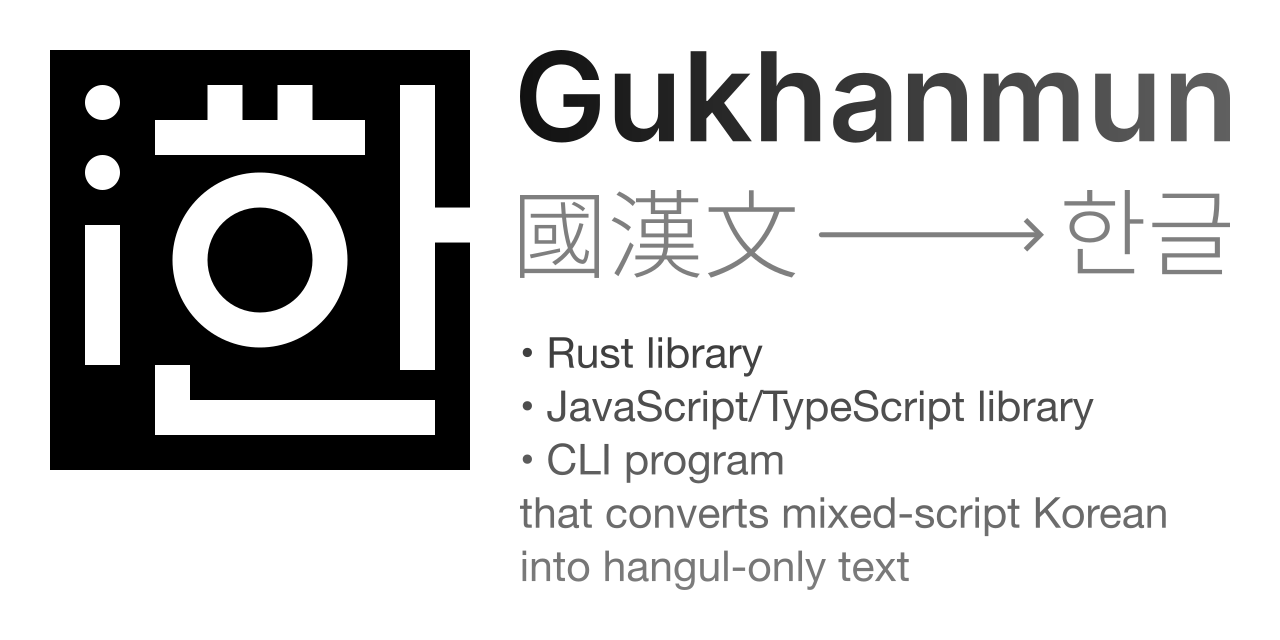
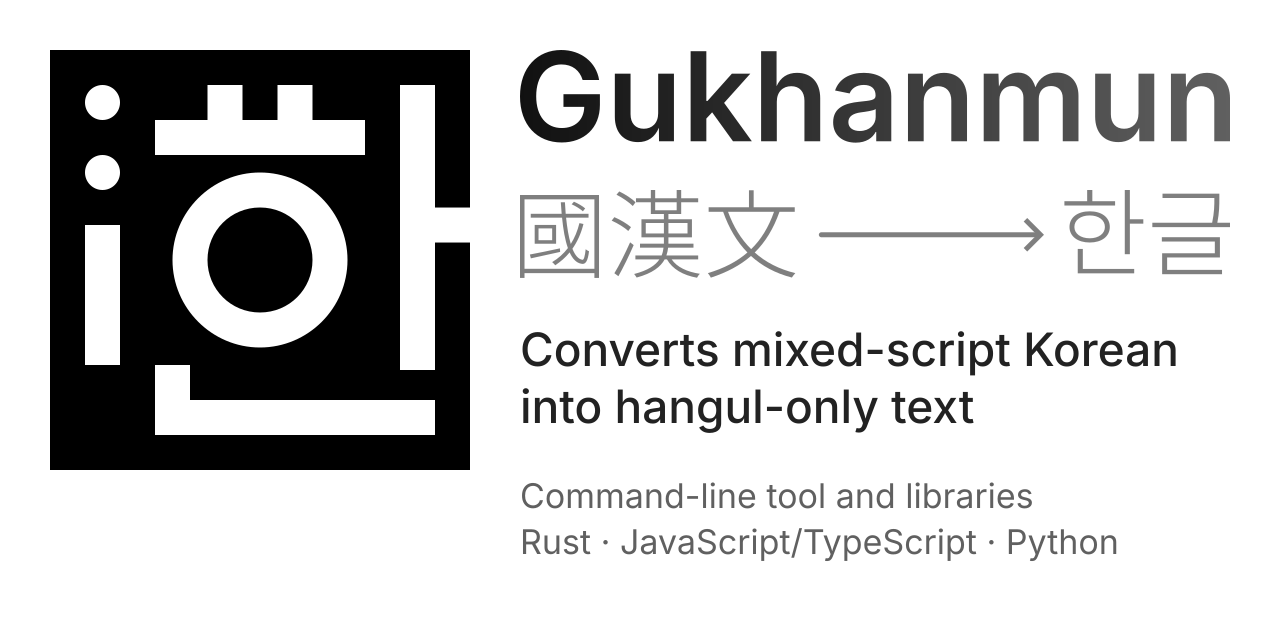
Document Python support across project materials
Include Python in sponsorship, dictionary distribution, licensing and
release documentation. Clarify Python's buffered streaming interface
and update the documentation structure guide.

Reorganize the Open Graph artwork to separate conversion features from
supported interfaces, and give every language equal visual weight.
Regenerate the PNG with font-independent outlined lettering.

[ci skip]

Assisted-by: OpenCode:gpt-6.1-sol
Assisted-by: Claude Code:claude-sonnet-5-5

Changed region(s): [[0.4062, 0.5, 0.9375, 0.9375]]

diff --git a/DESIGN.ko-Kore.md b/DESIGN.ko-Kore.md
@@ -1205,7 +1205,7 @@ Python은 構造的 記述子 代身 變更할 수 없는 `MapDictionarySource`,
 | `gukhanmun-loanwords`      | 예        | 아니오      | 아니오          | 아니오 |
 | `gukhanmun-mkdict`         | 예        | 아니오      | 아니오          | 아니오 |
 | `gukhanmun`                | 예        | 아니오      | 아니오          | 예     |
-| `gukhanmun-cli`            | 예        | 아니오      | 아니오          | 아니오 |
+| `gukhanmun-cli`            | 예        | 아니오      | 아니오          | 예     |
 | `gukhanmun-wasm`           | 예        | 아니오      | 아니오          | 아니오 |
 | `gukhanmun-napi`           | 예        | 아니오      | 아니오          | 아니오 |
 | `gukhanmun-python`         | 아니오    | 아니오      | 아니오          | 아니오 |
@@ -1226,18 +1226,23 @@ Python은 構造的 記述子 代身 變更할 수 없는 `MapDictionarySource`,
 | `gukhanmun-loanwords-cdb`  | 아니오    | 아니오      | 아니오          | 예     |
 
 CLI 바이너리는 各 릴리스 GitHub Releases에 플랫폼別(Linux x86\_64·aarch64, macOS
-arm64·x86\_64, Windows x86\_64) 添附된다.
+arm64·x86\_64, Windows AMD64·ARM64) 添附된다. 獨立된 `gukhanmun-cli` PyPI
+配布版은 같은 辭典 內藏 變換器와 `gukhanmun-mkdict`를 여섯 플랫폼別 휠(wheel)로
+提供한다. Python 바인딩인 `gukhanmun`이나 辭典 데이터 配布版에는 依存하지
+않으며, 自動 完成 資源과 소프트웨어·데이터 告知도 包含한다. 이 CLI의 產出物과
+檢證 記錄은 Python 바인딩의 31個 配布 파일과 別途로 管理한다.
 
 公開 패키지의 버전은 모두 同一步調(lockstep)로 進行한다.
 *Cargo.toml*의 `workspace.package.version`만 手動으로 選擇하며, 다음에
 計劃한 릴리스 버전을 나타낸다. `mise run bump-execute`는 워크스페이스와
-JavaScript 매니페스트, 일곱 Python 매니페스트, 正確한 엑스트라 버전 固定과
+JavaScript 매니페스트, 여덟 Python 매니페스트, 正確한 엑스트라 버전 固定과
 *uv.lock*을 하나의 署名 커밋에서 함께 올린다. 릴리스 태그는 버전을 바꾸지 않고
 그 버전을 配布한다. 機能이 달라지지 않은 패키지도 言語 間 依存性을 맞추기
 爲해 함께 올린다. 配布를 함께 調整하여 個別 버전을 使用하는 런타임·共有
 타입·辭典 패키지 사이의 依存 範圍 不一致를 防止한다. 태그 워크플로는
-크레이트를 crates.io에, JavaScript 패키지를 npm/JSR에 配布하고, 플랫폼別
-NAPI 事前 빌드 바이너리를 빌드하며, 릴리스 바이너리를 GitHub 릴리스에 添附한다.
+크레이트를 crates.io에, JavaScript 패키지를 npm/JSR에, Python 配布版을 PyPI에
+配布하고, 플랫폼別 NAPI 事前 빌드 바이너리를 빌드하며, 릴리스 바이너리를
+GitHub 릴리스에 添附한다.
 非公開 `gukhanmun-python` 크레이트는 Python 原始 코드
 配布版에 담되 crates.io에는 配布하지 않는다.
 

diff --git a/DESIGN.en.md b/DESIGN.en.md
@@ -1442,7 +1442,7 @@ sequence. The corresponding `*_bytes()` helpers return dictionary bytes.
 | `gukhanmun-loanwords`      | yes       | no                      | no                 | no   |
 | `gukhanmun-mkdict`         | yes       | no                      | no                 | no   |
 | `gukhanmun`                | yes       | no                      | no                 | yes  |
-| `gukhanmun-cli`            | yes       | no                      | no                 | no   |
+| `gukhanmun-cli`            | yes       | no                      | no                 | yes  |
 | `gukhanmun-wasm`           | yes       | no                      | no                 | no   |
 | `gukhanmun-napi`           | yes       | no                      | no                 | no   |
 | `gukhanmun-python`         | no        | no                      | no                 | no   |
@@ -1483,8 +1483,9 @@ tag publishes that version without changing it. Packages with no functional
 change still advance together to keep cross-language dependencies aligned.
 Coordinated releases avoid dependency-range drift between independently
 versioned runtimes, shared types and dictionary packages. The tag workflow
-publishes crates to crates.io and JavaScript packages to npm/JSR, builds
-per-platform NAPI prebuilts, and attaches release binaries to GitHub Releases.
+publishes crates to crates.io, JavaScript packages to npm/JSR, and Python
+distributions to PyPI. It builds per-platform NAPI prebuilts and attaches
+release binaries to GitHub Releases.
 The private `gukhanmun-python` crate is packaged in the Python sdist, not
 published to crates.io.
 

diff --git a/docs/README.md b/docs/README.md
@@ -2,8 +2,9 @@ Gukhanmun documentation
 =======================
 
 This directory contains the [Rspress] documentation site for Gukhanmun.
-The site is built from Markdown and MDX source files and uses TypeDoc to
-generate the API reference.
+The site is built from Markdown and MDX source files. TypeDoc generates the
+JavaScript API reference; the Python API reference is hand-written, and the
+Rust API reference is hosted on docs.rs.
 
 [Rspress]: https://rspress.dev/
 
@@ -46,13 +47,16 @@ pnpm run preview
 Structure
 ---------
 
- -  *guide/* contains hand-written user-facing documentation, organised into
-    three subdirectories: *cli/*, *javascript/*, and *rust/*.
- -  *internals/* contains design and implementation notes.  *design.md* is a
-    symlink to *DESIGN.en.md* at the workspace root.
- -  *api/* holds the API reference.  *api/js/* is auto-generated by TypeDoc
-    and must not be edited by hand.
- -  *index.md* is the landing page.
+ -  *en/* and *ko-Kore/* contain the English and mixed-script Korean sources.
+    *ko-KR/* is generated from *ko-Kore/* and must not be edited by hand.
+ -  Each locale's *guide/* contains hand-written user-facing documentation,
+    with *cli/*, *rust/*, *javascript/*, and *python/* subdirectories.
+ -  *internals/* contains design and implementation notes. *design.md* in each
+    source locale links to the corresponding root design document.
+ -  *api/* holds the API reference, including the hand-written *python.md*.
+    The English *api/js/* is auto-generated by TypeDoc and must not be edited
+    by hand.
+ -  Each locale's *index.md* is its landing page.
 
 
 Editing

diff --git a/docs/ko-Kore/index.md b/docs/ko-Kore/index.md
@@ -47,7 +47,7 @@ features:
   icon: '<svg xmlns="http://www.w3.org/2000/svg" viewBox="0 0 24 24" fill="none" stroke="currentColor" stroke-width="1.5" stroke-linecap="round" stroke-linejoin="round"><path d="m6.75 7.5 3 2.25-3 2.25m4.5 0h3m-9 8.25h13.5A2.25 2.25 0 0 0 21 18V6a2.25 2.25 0 0 0-2.25-2.25H5.25A2.25 2.25 0 0 0 3 6v12a2.25 2.25 0 0 0 2.25 2.25Z"/></svg>'
   link: ./guide/intro
 - title: 스트리밍 API
-  details: JavaScript의 <code>TransformStream</code> 인터페이스(interface)나 Rust의 反復子(iterator) API로, 任意의 큰 文書를 청크 單位로 處理합니다.
+  details: JavaScript의 <code>TransformStream</code> 인터페이스(interface)나 Rust의 反復子(iterator) API로 文書를 漸進的으로 處理합니다. Python의 청크 인터페이스는 終了 時까지 文書 全體를 버퍼에 모읍니다.
   icon: '<svg xmlns="http://www.w3.org/2000/svg" viewBox="0 0 24 24" fill="none" stroke="currentColor" stroke-width="1.5" stroke-linecap="round" stroke-linejoin="round"><path d="M16.023 9.348h4.992v-.001M2.985 19.644v-4.992m0 0h4.992m-4.993 0 3.181 3.183a8.25 8.25 0 0 0 13.803-3.7M4.031 9.865a8.25 8.25 0 0 1 13.803-3.7l3.181 3.182m0-4.991v4.99"/></svg>'
   link: ./guide/javascript/streaming
 sponsorship:

diff --git a/docs/en/index.md b/docs/en/index.md
@@ -47,7 +47,7 @@ features:
   icon: '<svg xmlns="http://www.w3.org/2000/svg" viewBox="0 0 24 24" fill="none" stroke="currentColor" stroke-width="1.5" stroke-linecap="round" stroke-linejoin="round"><path d="m6.75 7.5 3 2.25-3 2.25m4.5 0h3m-9 8.25h13.5A2.25 2.25 0 0 0 21 18V6a2.25 2.25 0 0 0-2.25-2.25H5.25A2.25 2.25 0 0 0 3 6v12a2.25 2.25 0 0 0 2.25 2.25Z"/></svg>'
   link: ./guide/intro
 - title: Streaming API
-  details: Process arbitrarily large documents chunk by chunk with a <code>TransformStream</code> interface in JavaScript or an iterator API in Rust.
+  details: Use JavaScript’s <code>TransformStream</code> or Rust’s iterator API for incremental processing. Python’s chunked interface buffers the whole document until finalization.
   icon: '<svg xmlns="http://www.w3.org/2000/svg" viewBox="0 0 24 24" fill="none" stroke="currentColor" stroke-width="1.5" stroke-linecap="round" stroke-linejoin="round"><path d="M16.023 9.348h4.992v-.001M2.985 19.644v-4.992m0 0h4.992m-4.993 0 3.181 3.183a8.25 8.25 0 0 0 13.803-3.7M4.031 9.865a8.25 8.25 0 0 1 13.803-3.7l3.181 3.182m0-4.991v4.99"/></svg>'
   link: ./guide/javascript/streaming
 sponsorship:

diff --git a/docs/en/internals/opendict.md b/docs/en/internals/opendict.md
@@ -55,7 +55,9 @@ outputs.
 The `gukhanmun-opendict` build script invokes `gukhanmun-mkdict` to build four
 embedded FST dictionaries at compile time.  The JavaScript package data tasks
 build matching FST and CDB binaries for `@gukhanmun/opendict-fst` and
-`@gukhanmun/opendict-cdb`.
+`@gukhanmun/opendict-cdb`. The Python data distributions
+`gukhanmun-opendict-fst` and `gukhanmun-opendict-cdb` package those same
+binaries.
 
 
 Extraction policy
@@ -133,3 +135,9 @@ and the CLI. The JavaScript bindings do not auto-load dictionary data for
 either preset; use `@gukhanmun/opendict-fst` or `@gukhanmun/opendict-cdb`
 explicitly and pass the categories you need through
 `load({ dictionaries: [...] })`.
+
+Python likewise requires explicit dictionary sources, even with `Preset.KO_KP`.
+Install the `gukhanmun[opendict]` extra, then pass the needed category sources,
+such as `opendict_north_korean()`, from `gukhanmun.dictionaries` to
+`Converter(dictionaries=[...])`. Installing the extra alone does not load data.
+See the [Python dictionary guide](../guide/python/dictionaries.md).

diff --git a/NOTICE.md b/NOTICE.md
@@ -96,10 +96,11 @@ terms. The API key holder reported no additional conditions during issuance.
 
 The pinned snapshot, content checksum and collection date are recorded in
 *crates/gukhanmun-loanwords/data/snapshot.json*. The full source and audit stay
-in the repository; runtime Rust/JavaScript packages carry the generated
-lookup data, provenance and *ATTRIBUTION.md*. All such packages must retain
-that attribution under this project's packaging policy. Session/IP metadata
-from the API response envelope is discarded.
+in the repository. Distributions that include this dictionary, whether for
+Rust, JavaScript or Python, carry the generated lookup data, provenance and
+*ATTRIBUTION.md*. All such packages must retain that attribution under this
+project's packaging policy. Session/IP metadata from the API response envelope
+is discarded.
 
 [*Korean Language Norms* loanword examples]: https://korean.go.kr/kornorms/example/exampleList.do?regltn_code=0003
 [help page, item 7]: https://korean.go.kr/kornorms/help/helpView.do

diff --git a/CONTRIBUTING.md b/CONTRIBUTING.md
@@ -487,8 +487,12 @@ itself is just a signed tag whose name equals that version.  After releasing
 CI derives every published version from `workspace.package.version` at publish
 time: the `x.y.z-dev.N+<sha>` development publishes on `main` and the `x.y.z`
 release publishes on a tag, restamping the Rust and JavaScript manifests alike.
+Python distributions use the corresponding [PEP 440] version, `x.y.z.devN` for
+development builds and `x.y.z` for stable tags, without the `+sha` suffix.
 You never hand-edit those versions for a release; the bump command below is the
 only place a contributor sets a version.
+
+[PEP 440]: https://peps.python.org/pep-0440/
 
 ### Version bumps
 
@@ -546,8 +550,6 @@ Push the bump commit normally:
 ~~~~ sh
 git push
 ~~~~
-
-[PEP 440]: https://peps.python.org/pep-0440/
 
 ### Tagging a release
 

diff --git a/crates/gukhanmun-loanwords/README.md b/crates/gukhanmun-loanwords/README.md
@@ -19,8 +19,16 @@ JavaScript callers load `@gukhanmun/loanwords-fst` or
 `@gukhanmun/loanwords-cdb` after user dictionaries and before the preset
 dictionaries.
 
+Python callers install `gukhanmun[loanwords]` and explicitly add
+`gukhanmun.dictionaries.loanwords()` to `Converter(dictionaries=[...])`.
+Neither Python preset loads dictionary data automatically, and installing the
+extra does not change that. See the [Python dictionary guide] for source roles
+and selection policies.
+
 See *ATTRIBUTION.md* and *LICENSE* for source permissions, which are separate
 from the GPLv3-or-later software terms. Ordinary builds need no API key.
+
+[Python dictionary guide]: https://gukhanmun.org/en/guide/python/dictionaries
 
 
 Regeneration and scheduled updates
